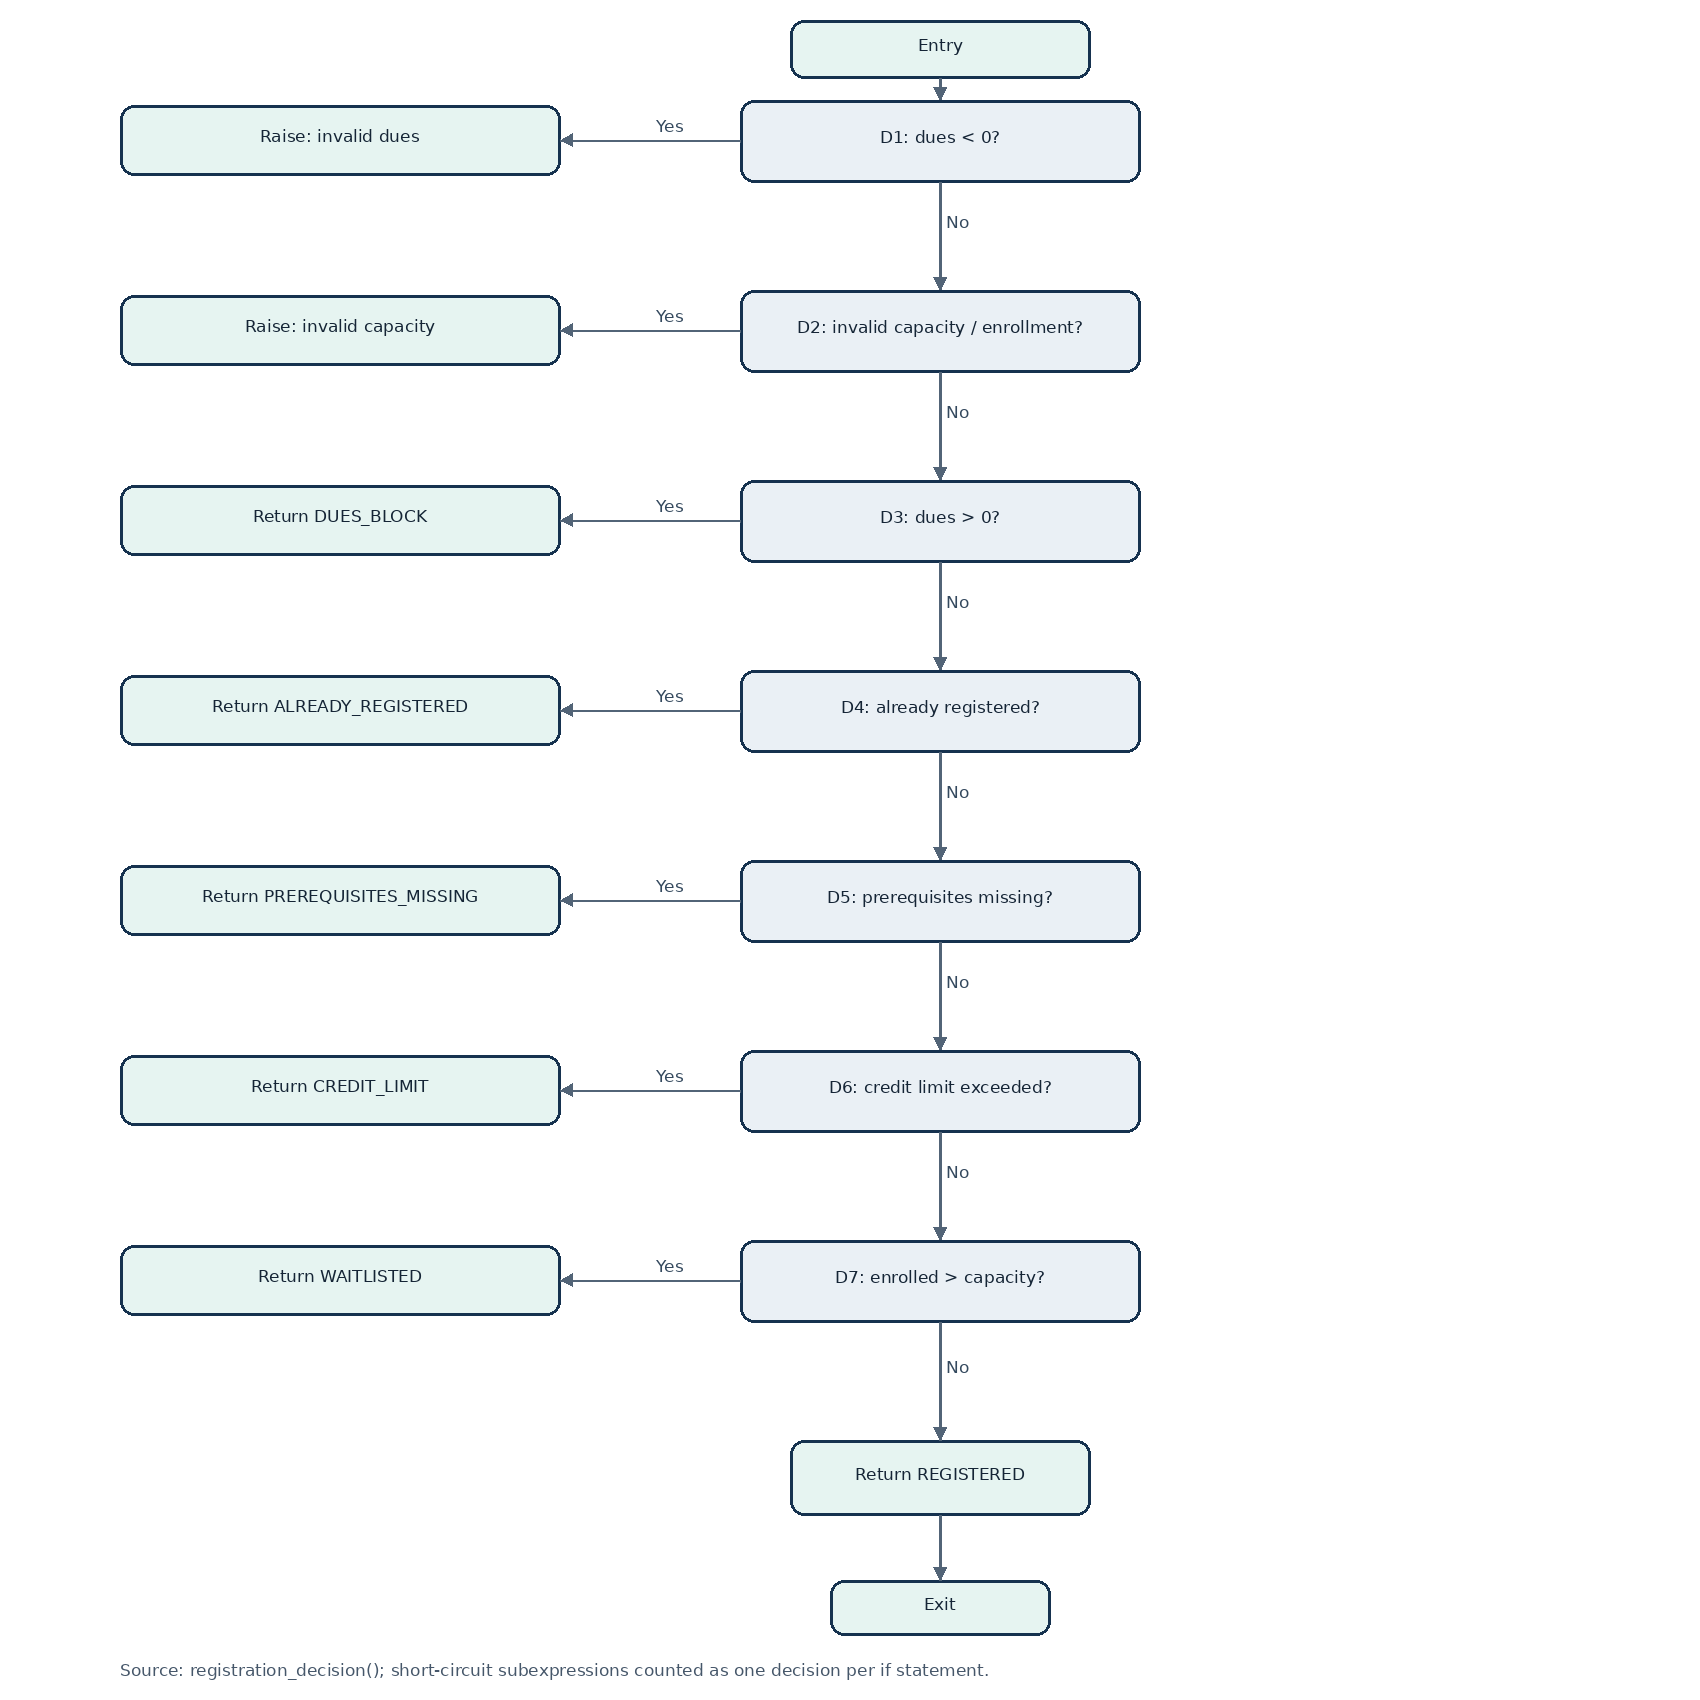
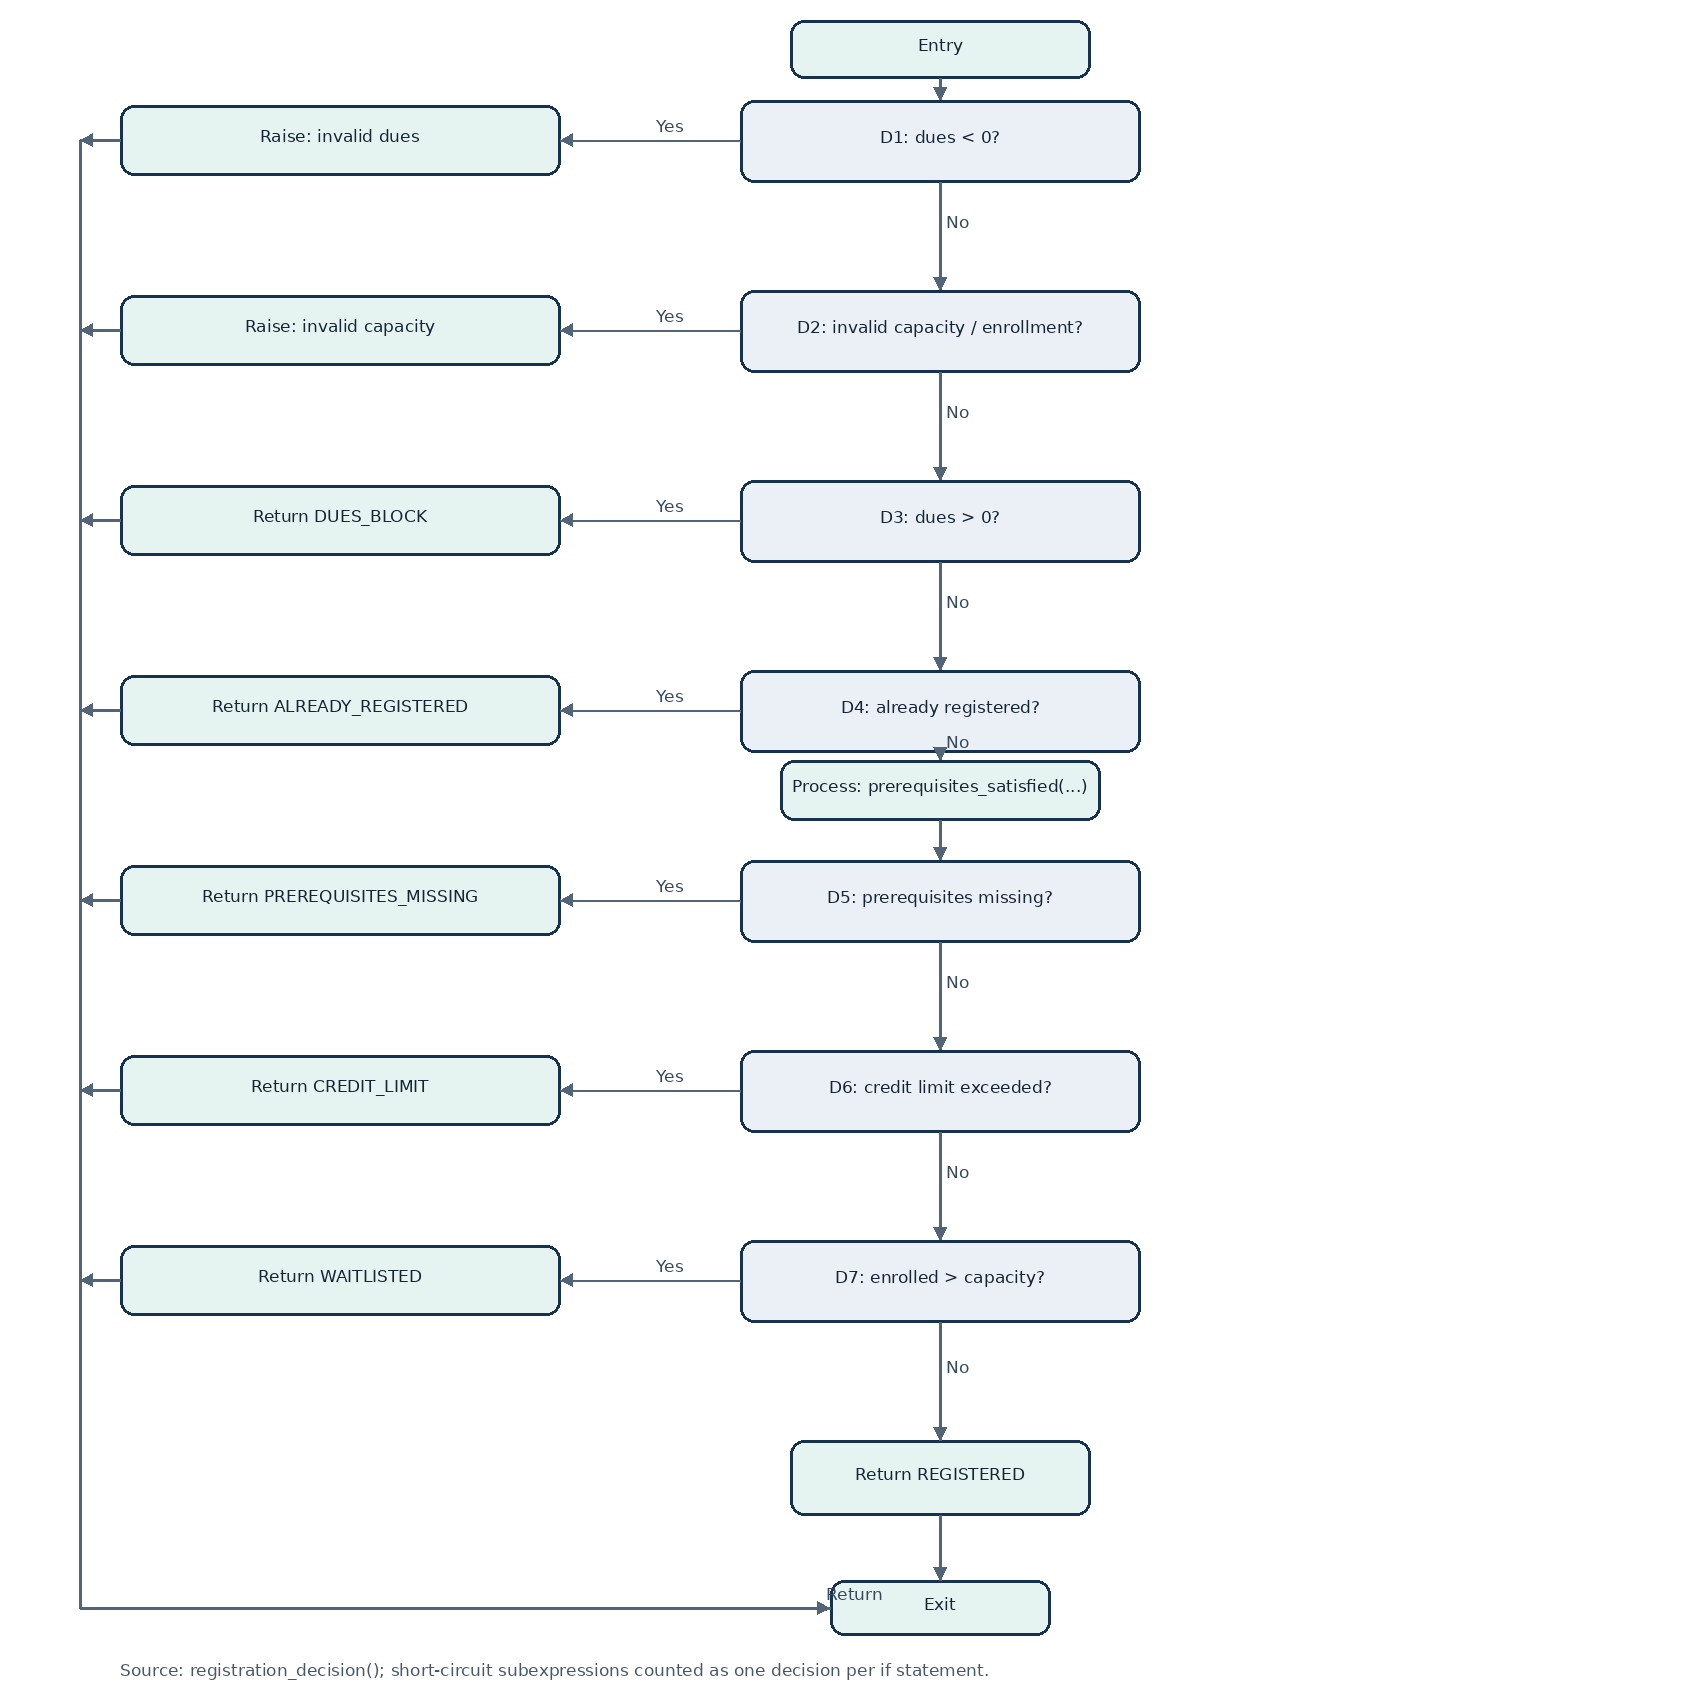
Fix registration defects and publish regression evidence

diff --git a/registration.py b/registration.py
@@ -31,14 +31,14 @@ def check_credit_limit(current_credits: int, new_credits: int) -> bool:
         raise ValueError("Invalid current credits")
     if not 1 <= new_credits <= 4:
         raise ValueError("Invalid course credits")
-    return current_credits + new_credits < 18
+    return current_credits + new_credits <= 18
 
 
 def prerequisites_satisfied(completed: set[str], required: set[str]) -> bool:
     """Return whether the completed-course record meets prerequisites."""
     if not required:
         return True
-    return bool(completed.intersection(required))
+    return required.issubset(completed)
 
 
 def registration_decision(student: Student, course: Course) -> str:
@@ -47,7 +47,7 @@ def registration_decision(student: Student, course: Course) -> str:
         raise ValueError("Invalid dues")
     if not 0 <= course.enrolled <= course.capacity or course.capacity < 1:
         raise ValueError("Invalid capacity or enrollment")
-    if student.outstanding_dues > 1000:
+    if student.outstanding_dues > 0:
         return "DUES_BLOCK"
     if course.code in student.registered_courses:
         return "ALREADY_REGISTERED"
@@ -55,7 +55,7 @@ def registration_decision(student: Student, course: Course) -> str:
         return "PREREQUISITES_MISSING"
     if not check_credit_limit(student.current_credits, course.credit_hours):
         return "CREDIT_LIMIT"
-    if course.enrolled > course.capacity:
+    if course.enrolled == course.capacity:
         return "WAITLISTED"
     return "REGISTERED"
 
@@ -78,4 +78,5 @@ def withdraw_course(student: Student, course: Course) -> bool:
         return False
     student.registered_courses.remove(course.code)
     student.current_credits -= course.credit_hours
+    course.enrolled -= 1
     return True

diff --git a/docs/defects.md b/docs/defects.md
@@ -4,12 +4,12 @@ All expected results below come from FR-01, FR-03, FR-04, FR-08, and FR-13 in `R
 
 | ID | Requirement | Reproduction | Expected | Starter actual | Failed test ID | Status |
 |---|---|---|---|---|---|---|
-| D-01 | FR-01 | `check_credit_limit(15, 3)` | `True` at exactly 18 credits | `False` | `BVA-TOTAL-18` | Fixed on `fixes` |
-| D-02 | FR-03 / FR-06 | `prerequisites_satisfied({'CS101'}, {'CS101','MATH101'})` | `False`; registration is `PREREQUISITES_MISSING` | `True` because any intersection suffices | `ECP-PR-SOME` | Fixed on `fixes` |
-| D-03 | FR-04 / FR-09 | decision for dues Rs. 1, all else eligible | `DUES_BLOCK` | `REGISTERED` | `BVA-DUES-1` | Fixed on `fixes` |
-| D-04 | FR-08 | eligible student, `enrolled == capacity` | `WAITLISTED` | `REGISTERED`; the over-capacity check can never be reached with valid input | `BVA-CAPACITY-FULL` | Fixed on `fixes` |
-| D-05 | FR-13 | withdraw registered course with `enrolled=1` | credits decrease and `enrolled` becomes 0 | student changes; enrollment remains 1 | `STATE-WITHDRAW` | Fixed on `fixes` |
+| D-01 | FR-01 | `check_credit_limit(15, 3)` | `True` at exactly 18 credits | `False` | `BVA-TOTAL-18` | Fixed on `fixes`; [Issue #5](https://github.com/17sync/Application-Defect-Management/issues/5) |
+| D-02 | FR-03 / FR-06 | `prerequisites_satisfied({'CS101'}, {'CS101','MATH101'})` | `False`; registration is `PREREQUISITES_MISSING` | `True` because any intersection suffices | `ECP-PR-SOME` | Fixed on `fixes`; [Issue #2](https://github.com/17sync/Application-Defect-Management/issues/2) |
+| D-03 | FR-04 / FR-09 | decision for dues Rs. 1, all else eligible | `DUES_BLOCK` | `REGISTERED` | `BVA-DUES-1` | Fixed on `fixes`; [Issue #3](https://github.com/17sync/Application-Defect-Management/issues/3) |
+| D-04 | FR-08 | eligible student, `enrolled == capacity` | `WAITLISTED` | `REGISTERED`; the over-capacity check can never be reached with valid input | `BVA-CAPACITY-FULL` | Fixed on `fixes`; [Issue #1](https://github.com/17sync/Application-Defect-Management/issues/1) |
+| D-05 | FR-13 | withdraw registered course with `enrolled=1` | credits decrease and `enrolled` becomes 0 | student changes; enrollment remains 1 | `STATE-WITHDRAW` | Fixed on `fixes`; [Issue #4](https://github.com/17sync/Application-Defect-Management/issues/4) |
 
 ## GitHub issue records
 
-The five records above are ready to map one-to-one to GitHub Issues. Issue numbers and URLs must be entered after the issues are created in the repository; none are invented here.
+The records map one-to-one to GitHub Issues #1 through #5 in this repository. The links above are the created issue records.
